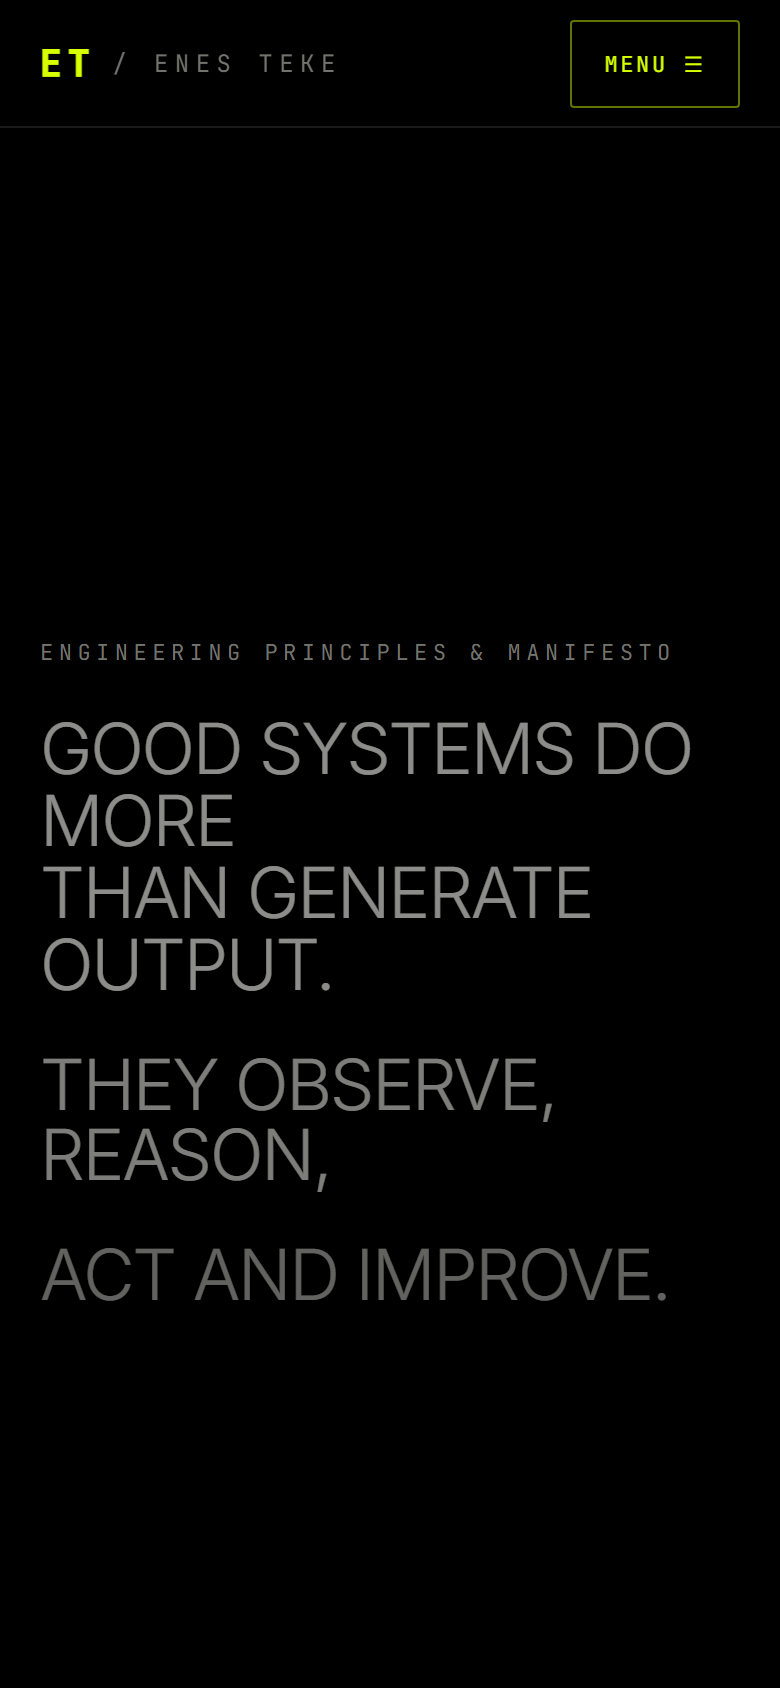
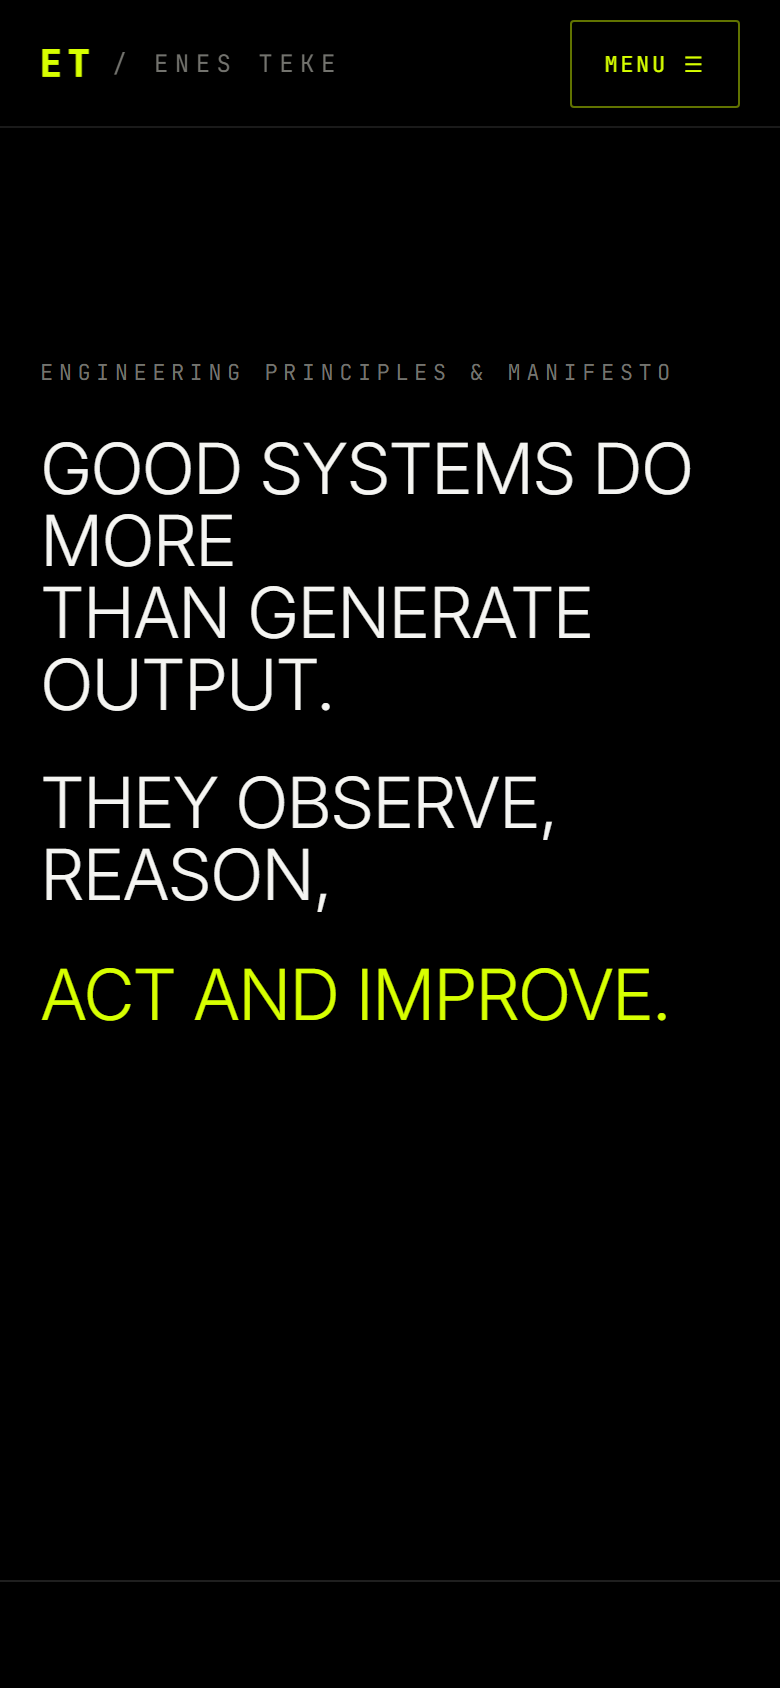
fix: set hero background transparent to reveal fixed WebGL monogram and static fallback

diff --git a/src/components/scene/ETMonogramScene.tsx b/src/components/scene/ETMonogramScene.tsx
@@ -54,7 +54,7 @@ void main() {
   
   vec2 mouseOffset = uMouse * 0.05;
   float n = snoise((st + mouseOffset) * uNoiseScale + uTime * 0.05);
-  float val = (n + 1.0) * 0.5 * uBgContrast * 0.15;
+  float val = (n + 1.0) * 0.5 * uBgContrast * 0.18;
   
   gl_FragColor = vec4(vec3(val), 1.0);
 }
@@ -87,16 +87,16 @@ void main() {
   vec3 viewDir = normalize(vViewPosition);
   
   // Fresnel Specular Edge Highlight
-  float fresnel = pow(1.0 - max(0.0, dot(normal, viewDir)), 3.0);
+  float fresnel = pow(1.0 - max(0.0, dot(normal, viewDir)), 2.5);
   
-  // Base Metallic Surface Tint (Deep Charcoal Gray with White Specular)
-  vec3 baseColor = vec3(0.18, 0.18, 0.20);
-  vec3 specularColor = vec3(0.90, 0.90, 0.95);
-  vec3 limeRim = vec3(0.84, 1.0, 0.0) * 0.25;
+  // High Contrast Metallic Surface Tint (Base Deep Gray with White Specular)
+  vec3 baseColor = vec3(0.24, 0.24, 0.28);
+  vec3 specularColor = vec3(0.95, 0.95, 1.0);
+  vec3 limeRim = vec3(0.84, 1.0, 0.0) * 0.35;
   
-  vec3 finalColor = mix(baseColor, specularColor, fresnel * 0.75) + limeRim * fresnel;
+  vec3 finalColor = mix(baseColor, specularColor, fresnel * 0.85) + limeRim * fresnel;
   
-  gl_FragColor = vec4(finalColor, 0.88);
+  gl_FragColor = vec4(finalColor, 0.92);
 }
 `;
 
@@ -125,17 +125,17 @@ export default function ETMonogramScene({
   const getScrollTransform = (state: string) => {
     switch (state) {
       case 'works':
-        return { posX: isMobile ? 0 : -6.0, posY: isMobile ? -3.0 : 0.5, scale: isMobile ? 0.45 : 0.65, bgContrast: 0.12, wireframeOpacity: 0.04 };
+        return { posX: isMobile ? 0 : -6.0, posY: isMobile ? -3.0 : 0.5, scale: isMobile ? 0.5 : 0.65, bgContrast: 0.12, wireframeOpacity: 0.05 };
       case 'manifesto':
-        return { posX: isMobile ? 0 : 0, posY: isMobile ? -2.0 : -0.5, scale: isMobile ? 0.55 : 0.85, bgContrast: 0.08, wireframeOpacity: 0.03 };
+        return { posX: isMobile ? 0 : 0, posY: isMobile ? -2.0 : -0.5, scale: isMobile ? 0.55 : 0.85, bgContrast: 0.08, wireframeOpacity: 0.04 };
       case 'hero':
       default:
         return {
-          posX: isMobile ? 1.6 : 4.8,
-          posY: isMobile ? -2.2 : 0.2,
-          scale: isMobile ? 0.65 : 0.95,
-          bgContrast: 0.25,
-          wireframeOpacity: isMobile ? 0.04 : 0.08
+          posX: isMobile ? 1.4 : 4.2,
+          posY: isMobile ? -1.8 : 0.1,
+          scale: isMobile ? 0.75 : 1.1,
+          bgContrast: 0.28,
+          wireframeOpacity: isMobile ? 0.08 : 0.12
         };
     }
   };
@@ -224,7 +224,7 @@ export default function ETMonogramScene({
         uTime: { value: 0 },
         uNoiseScale: { value: noiseScale },
         uScreenAspectRatio: { value: width / height },
-        uBgContrast: { value: 0.25 },
+        uBgContrast: { value: 0.28 },
       },
       depthWrite: false,
     });
@@ -274,7 +274,7 @@ export default function ETMonogramScene({
       color: 0xd7ff00,
       wireframe: true,
       transparent: true,
-      opacity: isMobile ? 0.04 : 0.08,
+      opacity: isMobile ? 0.08 : 0.12,
     });
     const outlineMesh = new THREE.Mesh(geometry, outlineMaterial);
 

diff --git a/src/components/common/StaticMonogramFallback.tsx b/src/components/common/StaticMonogramFallback.tsx
@@ -13,43 +13,49 @@ export default function StaticMonogramFallback({ visible = true }: StaticMonogra
         right: 0,
         width: '100vw',
         height: '100vh',
-        zIndex: 1,
+        zIndex: 2,
         pointerEvents: 'none',
         display: 'flex',
         alignItems: 'center',
         justifyContent: 'flex-end',
-        paddingRight: 'clamp(20px, 8vw, 120px)',
-        opacity: visible ? 0.35 : 0,
+        paddingRight: 'clamp(20px, 8vw, 140px)',
+        opacity: visible ? 0.65 : 0,
         transition: 'opacity 0.8s ease',
       }}
     >
       <svg
-        width="380"
-        height="380"
+        width="420"
+        height="420"
         viewBox="0 0 100 100"
         fill="none"
         xmlns="http://www.w3.org/2000/svg"
         style={{
           maxWidth: '45vw',
           maxHeight: '45vh',
-          filter: 'drop-shadow(0 0 20px rgba(215, 255, 0, 0.15))',
+          filter: 'drop-shadow(0 0 24px rgba(215, 255, 0, 0.2))',
         }}
       >
+        {/* Extruded 3D Shadow Layers for Depth */}
+        <path
+          d="M 22 22 L 82 22 L 82 36 L 40 36 L 40 48 L 74 48 L 74 62 L 40 62 L 40 74 L 82 74 L 82 88 L 22 88 Z"
+          fill="rgba(255, 255, 255, 0.05)"
+          stroke="rgba(255, 255, 255, 0.2)"
+          strokeWidth="1"
+        />
         <path
           d="M 20 20 L 80 20 L 80 34 L 38 34 L 38 46 L 72 46 L 72 60 L 38 60 L 38 72 L 80 72 L 80 86 L 20 86 Z"
-          fill="none"
+          fill="rgba(20, 20, 24, 0.7)"
           stroke="#f5f5f2"
-          strokeWidth="1.5"
+          strokeWidth="1.8"
           strokeLinejoin="round"
-          opacity="0.8"
         />
         <path
           d="M 20 20 L 80 20 L 80 34 L 38 34 L 38 46 L 72 46 L 72 60 L 38 60 L 38 72 L 80 72 L 80 86 L 20 86 Z"
           fill="none"
           stroke="#d7ff00"
-          strokeWidth="0.8"
-          strokeDasharray="3 3"
-          opacity="0.6"
+          strokeWidth="1"
+          strokeDasharray="4 4"
+          opacity="0.8"
         />
       </svg>
     </div>

diff --git a/src/sections/HeroSection.module.css b/src/sections/HeroSection.module.css
@@ -1,6 +1,6 @@
 .hero {
   position: relative;
-  z-index: 2;
+  z-index: 3;
   min-height: 100vh;
   display: flex;
   flex-direction: column;
@@ -9,7 +9,7 @@
   font-family: var(--font-family-mono);
   color: #f5f5f2;
   pointer-events: none;
-  background-color: #000000;
+  background-color: transparent;
 }
 
 .controlsTrigger {
@@ -29,7 +29,7 @@
 
 .heroBio {
   font-size: clamp(0.98rem, 4.3vw, 1.1rem);
-  color: rgba(245, 245, 242, 0.85);
+  color: rgba(245, 245, 242, 0.88);
   max-width: 32ch;
   line-height: 1.55;
 }
